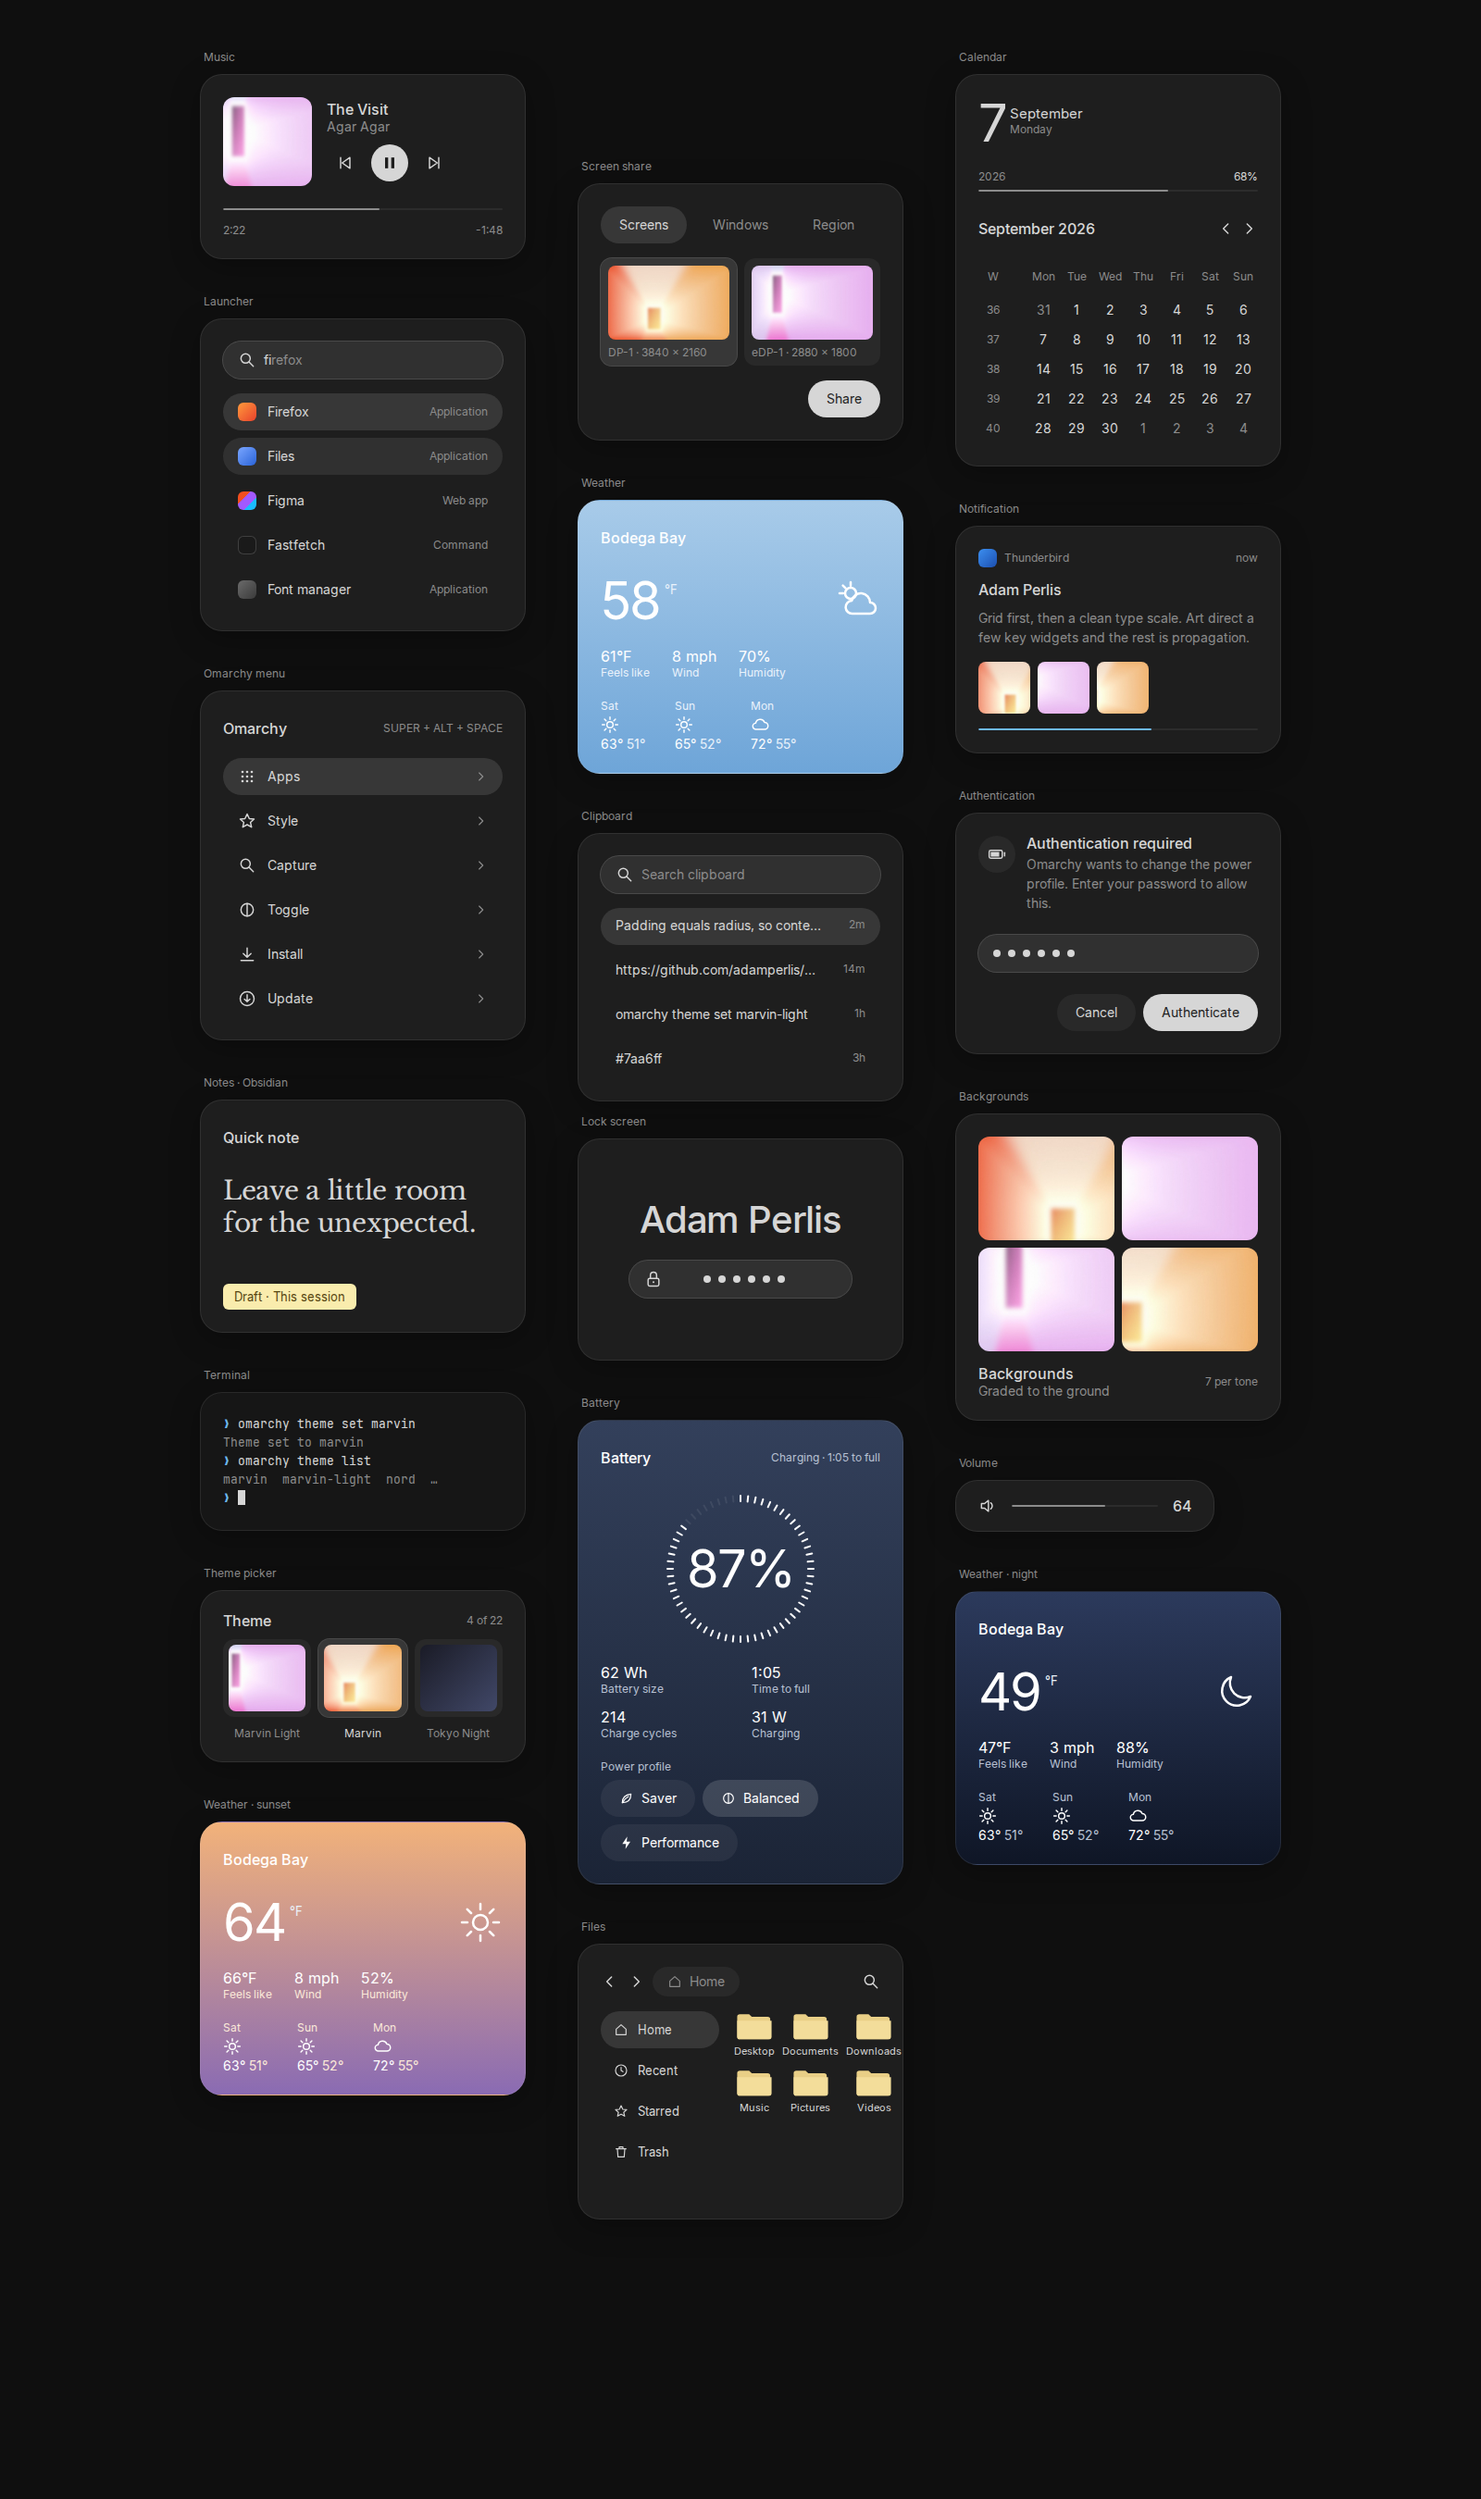
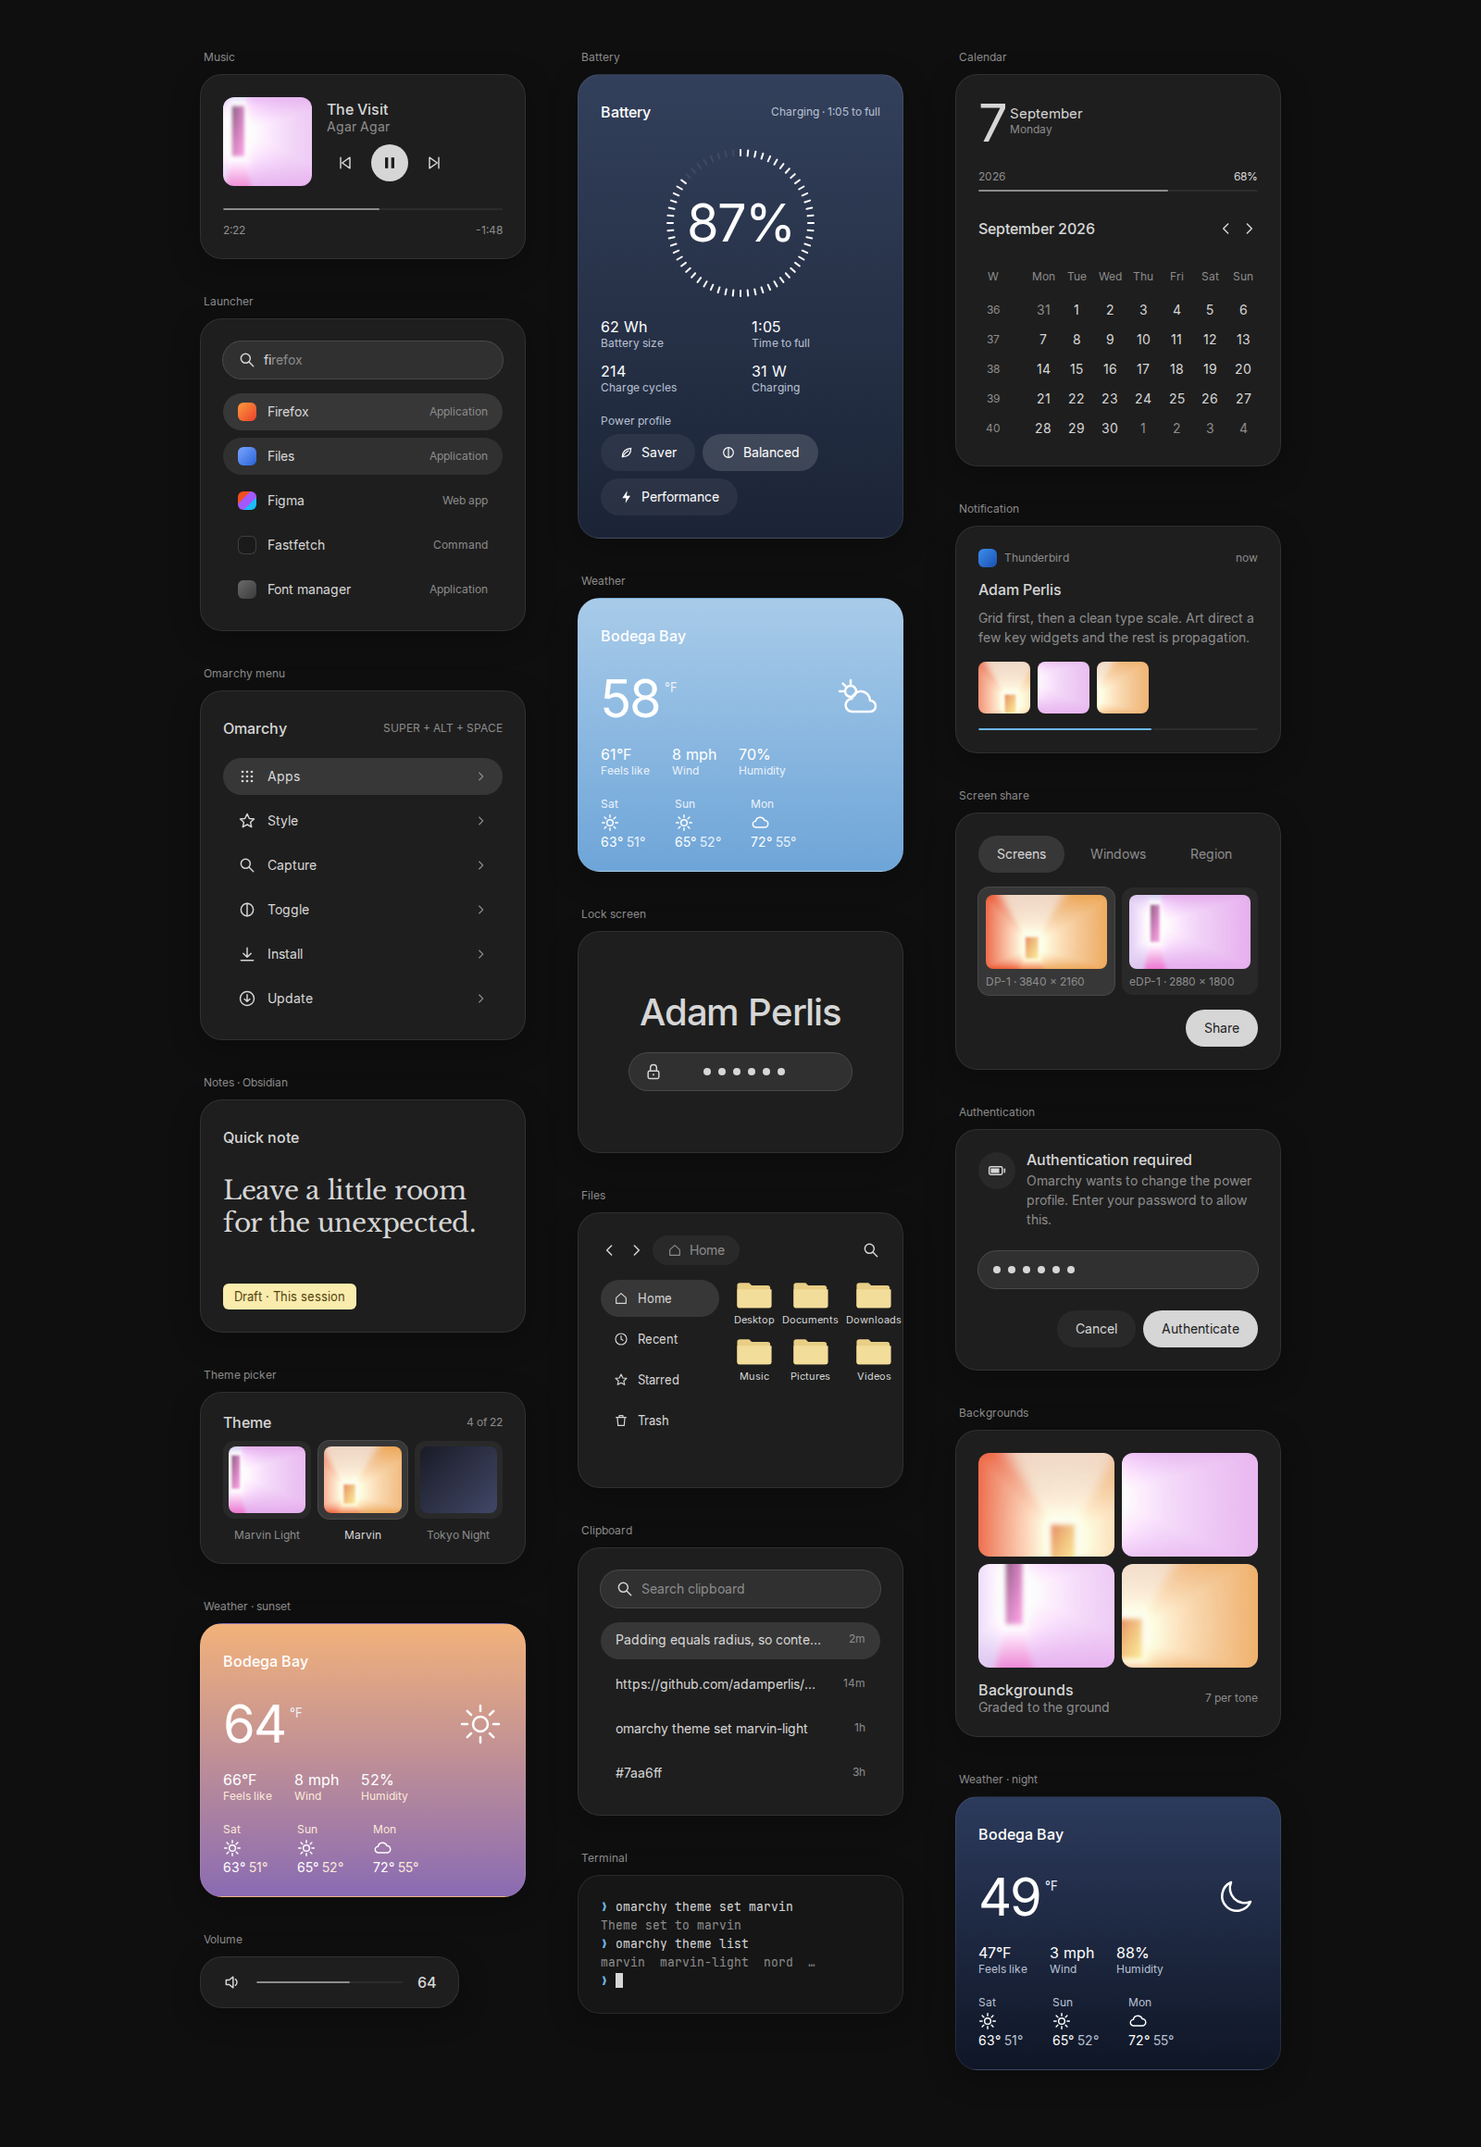
Widget sheet: three columns in flow, balanced to one height
The lock card no longer floats the middle column; it sits mid-column in
normal flow, and the cards are dealt so all three columns start on the
same line and end within a few pixels of each other.

Claude-Session: https://claude.ai/code/session_017caxMJD9sdbPw1WF3LGrYR

diff --git a/tools/previews/build.py b/tools/previews/build.py
@@ -343,19 +343,21 @@ def sheet(t, fonts):
     def cell(label, html): return f'<div class="cell"><div class="lab">{label}</div>{html}</div>'
     # The lock card sits at the dead centre of the sheet; the middle column
     # stacks away from it, upward above and downward below.
+    # Three columns in flow, balanced to the same height; the lock card sits
+    # at the middle of the middle column.
     cols = [
-        cell("Music", w["media"]) + cell("Launcher", w["launcher"]) + cell("Omarchy menu", w["menu"]) + cell("Notes · Obsidian", w["notes"]) + cell("Terminal", w["terminal"]) + cell("Theme picker", w["themes"]) + cell("Weather · sunset", w["weather_sunset"]),
-        f'<div class="up">{cell("Screen share", w["picker"]) + cell("Weather", w["weather"]) + cell("Clipboard", w["clipboard"])}</div><div class="lockcell">{cell("Lock screen", w["lock"])}</div><div class="down">{cell("Battery", w["power"]) + cell("Files", w["files"])}</div>',
-        cell("Calendar", w["clock"]) + cell("Notification", w["note"]) + cell("Authentication", w["polkit"]) + cell("Backgrounds", w["mood"]) + cell("Volume", w["osd"]) + cell("Weather · night", w["weather_night"]),
+        cell("Music", w["media"]) + cell("Launcher", w["launcher"]) + cell("Omarchy menu", w["menu"]) + cell("Notes · Obsidian", w["notes"]) + cell("Theme picker", w["themes"]) + cell("Weather · sunset", w["weather_sunset"]) + cell("Volume", w["osd"]),
+        cell("Battery", w["power"]) + cell("Weather", w["weather"]) + cell("Lock screen", w["lock"]) + cell("Files", w["files"]) + cell("Clipboard", w["clipboard"]) + cell("Terminal", w["terminal"]),
+        cell("Calendar", w["clock"]) + cell("Notification", w["note"]) + cell("Screen share", w["picker"]) + cell("Authentication", w["polkit"]) + cell("Backgrounds", w["mood"]) + cell("Weather · night", w["weather_night"]),
     ]
     return f"""<!doctype html><html><head><meta charset="utf-8"><style>{font_face(fonts)}{vars_css(t)}{BASE_CSS}
-html,body{{width:1600px;height:2700px;overflow:hidden}}body{{background:{ground};padding:56px 0}}
+html,body{{width:1600px;height:2320px;overflow:hidden}}body{{background:{ground};padding:56px 0}}
 .g{{display:grid;grid-template-columns:352px 352px 352px;gap:0 56px;justify-content:center;align-items:start}}
 .col{{display:flex;flex-direction:column;gap:40px}}
-.mid{{position:relative;height:2588px}}.mid .up,.mid .down{{position:absolute;left:0;right:0;display:flex;flex-direction:column;gap:40px}}.mid .up{{bottom:calc(50% + 160px)}}.mid .down{{top:calc(50% + 160px)}}.mid .lockcell{{position:absolute;left:0;right:0;top:calc(50% - 144px)}}
+
 .cell{{display:flex;flex-direction:column;gap:12px}}.lab{{font-size:12px;color:var(--muted);padding-left:4px}}
 .card,.note,.launcher{{width:352px}}
-</style></head><body><div class="g">{"".join(f'<div class="col{" mid" if i == 1 else ""}">{c}</div>' for i, c in enumerate(cols))}</div></body></html>"""
+</style></head><body><div class="g">{"".join(f'<div class="col">{c}</div>' for c in cols)}</div></body></html>"""
 
 if __name__ == "__main__":
     ap = argparse.ArgumentParser(); ap.add_argument("--fonts", required=True); ap.add_argument("--out", default=str(ROOT)); a = ap.parse_args()
@@ -366,7 +368,7 @@ if __name__ == "__main__":
         for name, html, size, dests in (
             ("desktop", desktop(t, a.fonts), (1800, 1012), [out / f"{pre}preview.png"]),
             ("boot", boot(t, a.fonts), (1920, 1080), [out / f"{pre}preview-unlock.png"]),
-            ("widgets", sheet(t, a.fonts), (1600, 2700), [out / f"docs/images/widgets-{tag}.png"]),
+            ("widgets", sheet(t, a.fonts), (1600, 2320), [out / f"docs/images/widgets-{tag}.png"]),
             ("workspace", workspace(t, a.fonts), (1800, 1012), [out / f"docs/images/workspace-{tag}.png"]),
             ("backgrounds", backgrounds(t, a.fonts), (1600, 1100), [out / f"docs/images/backgrounds-{tag}.png"]),
         ):
